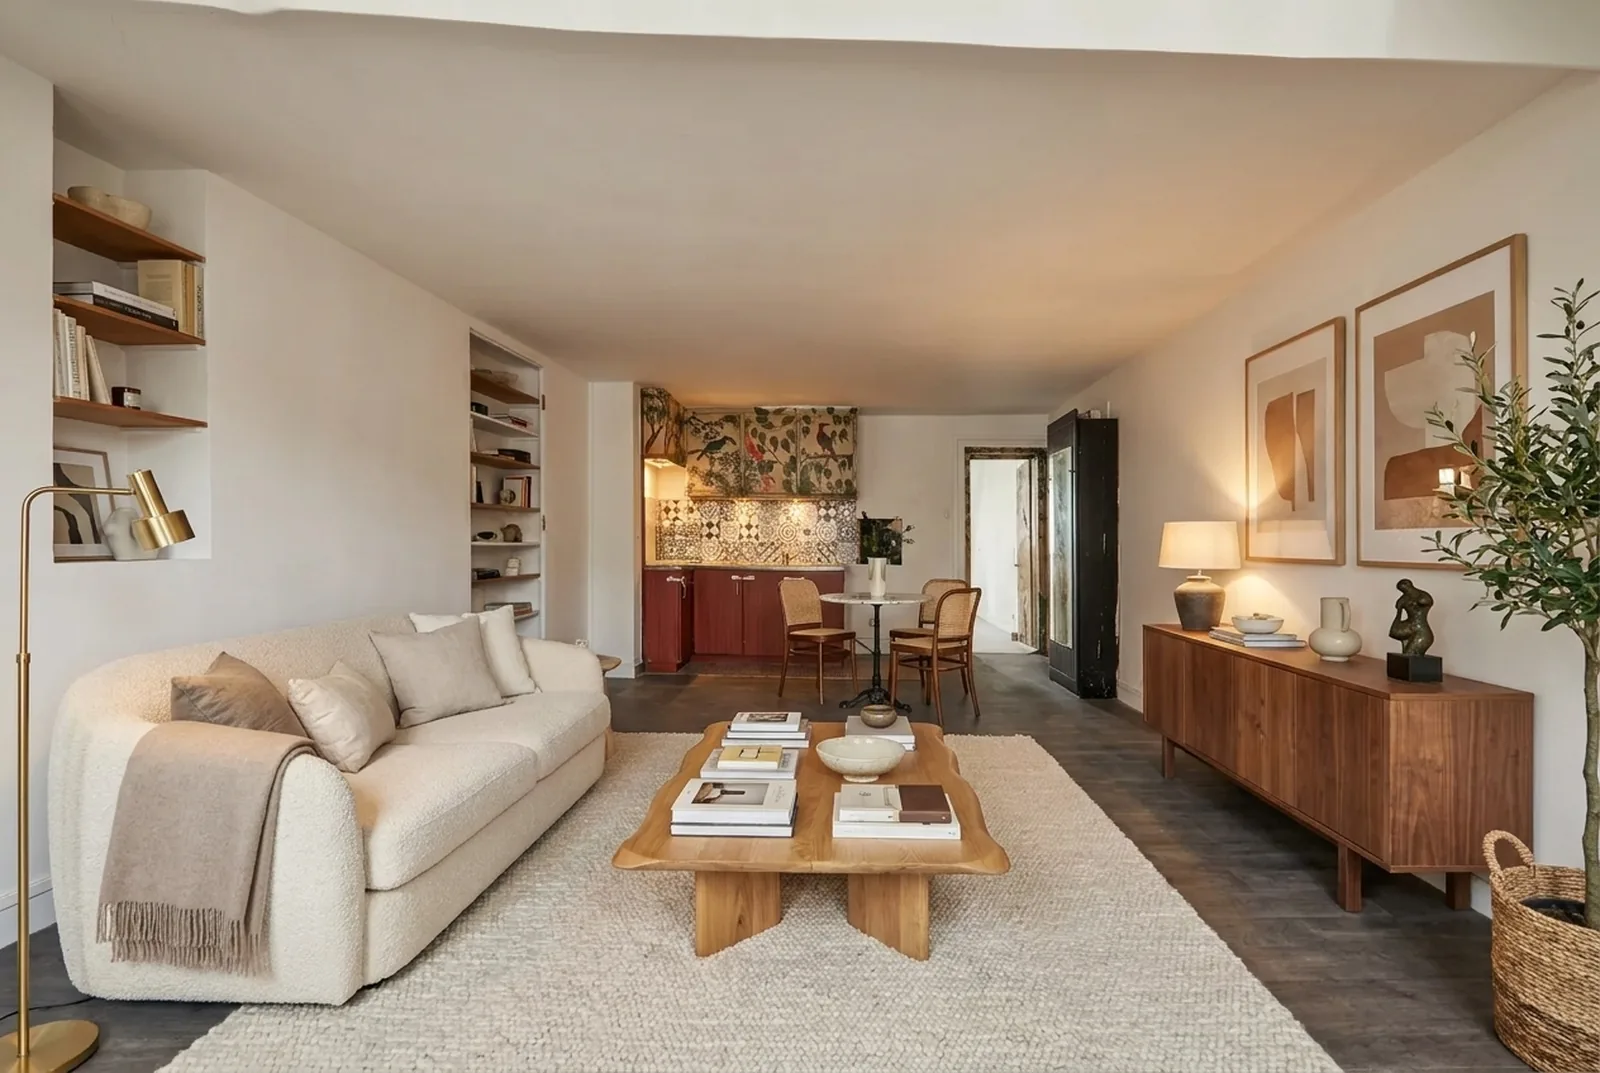
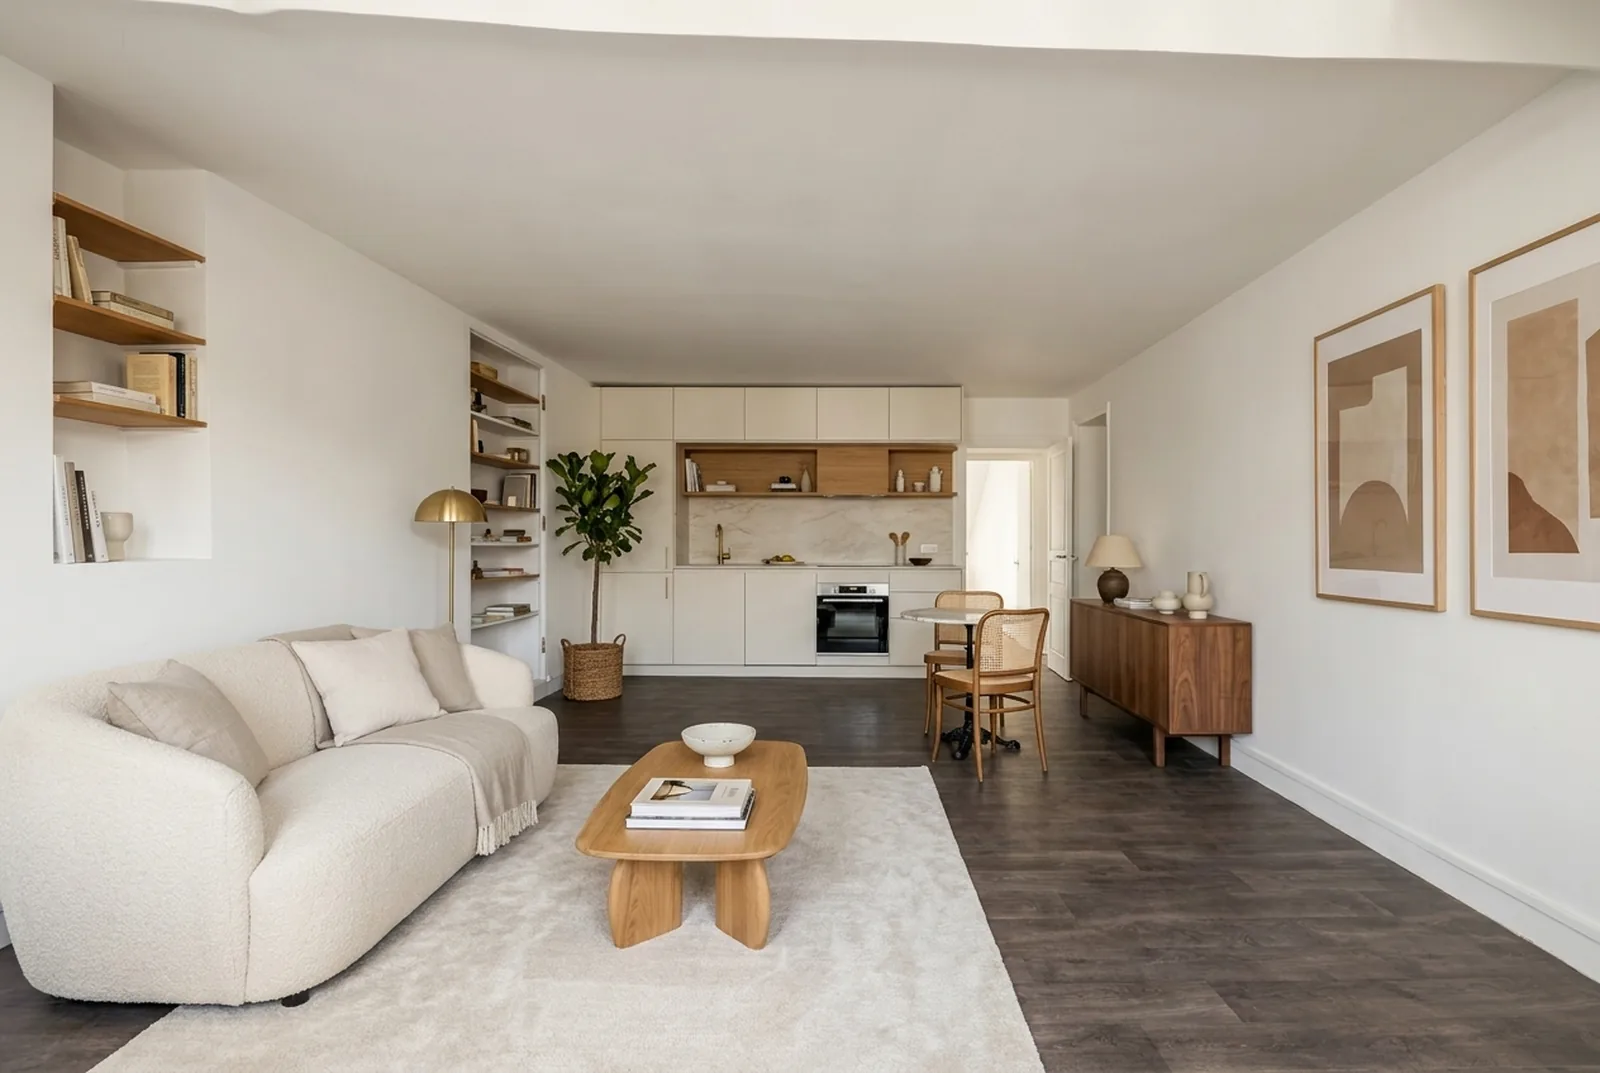
Le 6e en studio : cuisine contemporaine, meuble noir retiré
Retour Louison. La projection gardait la kitchenette rouge d'origine et
l'armoire noire — deux éléments qu'un acquéreur remplacerait le premier jour.
La cuisine neuve prend la même position le long du mur du fond, le pan libéré
par l'armoire reçoit deux œuvres encadrées. Pente, porte, étagères, sol et
proportions inchangés : c'est une projection après travaux, pas un autre
appartement.

diff --git a/index.html b/index.html
@@ -29,7 +29,7 @@
   <link rel="preload" href="assets/fonts/Manrope-400.woff2" as="font" type="font/woff2" crossorigin>
   <link rel="preload" as="image" type="image/webp" imagesrcset="assets/img/orsay-1200.webp 1200w, assets/img/orsay-1600.webp 1600w, assets/img/orsay-2400.webp 2400w" imagesizes="100vw" fetchpriority="high">
   <link rel="stylesheet" href="assets/fonts/fonts.css?v=17">
-  <link rel="stylesheet" href="css/main.css?v=38">
+  <link rel="stylesheet" href="css/main.css?v=39">
   <noscript><style>.reveal{opacity:1;transform:none}.hero__content>*{opacity:1;transform:none}.opener__frame{transform:none;border-radius:0}</style></noscript>
   <script type="application/ld+json">
   {
@@ -194,7 +194,7 @@
           <figure class="proj proj--wide reveal" tabindex="0" role="button" aria-label="Agrandir cette projection"><img src="assets/img/sejour-stage-1600.webp?v=4" width="1600" height="1073" alt="Le séjour du 5e étage aménagé : canapé en lin, table basse en chêne, tapis" loading="lazy" decoding="async"><figcaption>Le séjour, 5ᵉ</figcaption></figure>
           <figure class="proj reveal" tabindex="0" role="button" aria-label="Agrandir cette projection"><img src="assets/img/chambre-stage-1600.webp?v=4" width="1600" height="1073" alt="La chambre du 5e étage aménagée : lit en lin, chevets en chêne" loading="lazy" decoding="async"><figcaption>La chambre, 5ᵉ</figcaption></figure>
           <figure class="proj reveal" tabindex="0" role="button" aria-label="Agrandir cette projection"><img src="assets/img/bureau-stage-1600.webp?v=4" width="1600" height="1073" alt="Le bureau du 5e étage aménagé face aux toits : bureau en chêne, bibliothèque basse" loading="lazy" decoding="async"><figcaption>Le bureau face aux toits, 5ᵉ</figcaption></figure>
-          <figure class="proj reveal" tabindex="0" role="button" aria-label="Agrandir cette projection"><img src="assets/img/six-sejour-stage-1600.webp?v=4" width="1600" height="1073" alt="Le séjour du 6e étage aménagé en studio : canapé, table ronde, plantes" loading="lazy" decoding="async"><figcaption>Le 6ᵉ en studio indépendant</figcaption></figure>
+          <figure class="proj reveal" tabindex="0" role="button" aria-label="Agrandir cette projection"><img src="assets/img/six-sejour-stage-1600.webp?v=5" width="1600" height="1073" alt="Le 6e étage projeté en studio indépendant : cuisine contemporaine, canapé, table ronde" loading="lazy" decoding="async"><figcaption>Le 6ᵉ en studio indépendant</figcaption></figure>
           <figure class="proj reveal" tabindex="0" role="button" aria-label="Agrandir cette projection"><img src="assets/img/six-chambre-stage-1600.webp?v=4" width="1600" height="1073" alt="La chambre mansardée du 6e étage aménagée : lit double, chevet, tapis" loading="lazy" decoding="async"><figcaption>La chambre mansardée, 6ᵉ</figcaption></figure>
         </div>
         <p class="projections__note reveal">Aménagements virtuels générés sur les photographies du bien : le mobilier est une suggestion, l'architecture est celle que vous visiterez. Indicatif, non contractuel.</p>
@@ -353,6 +353,6 @@
     <p class="lightbox__count" id="lbCount"></p>
   </div>
 
-  <script src="js/main.js?v=38" defer></script>
+  <script src="js/main.js?v=39" defer></script>
 </body>
 </html>
